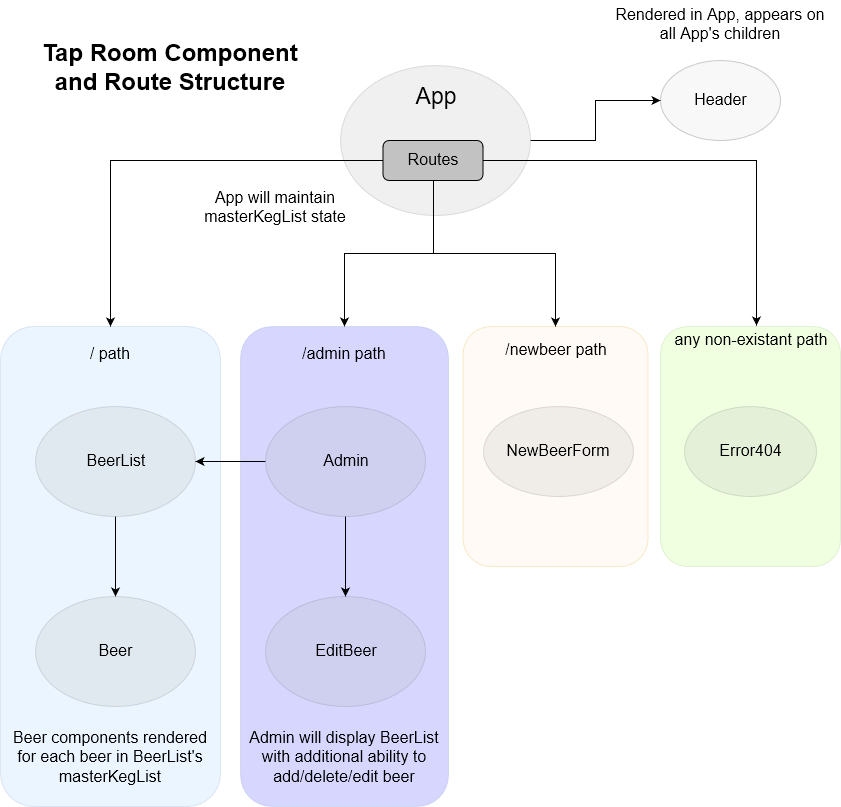
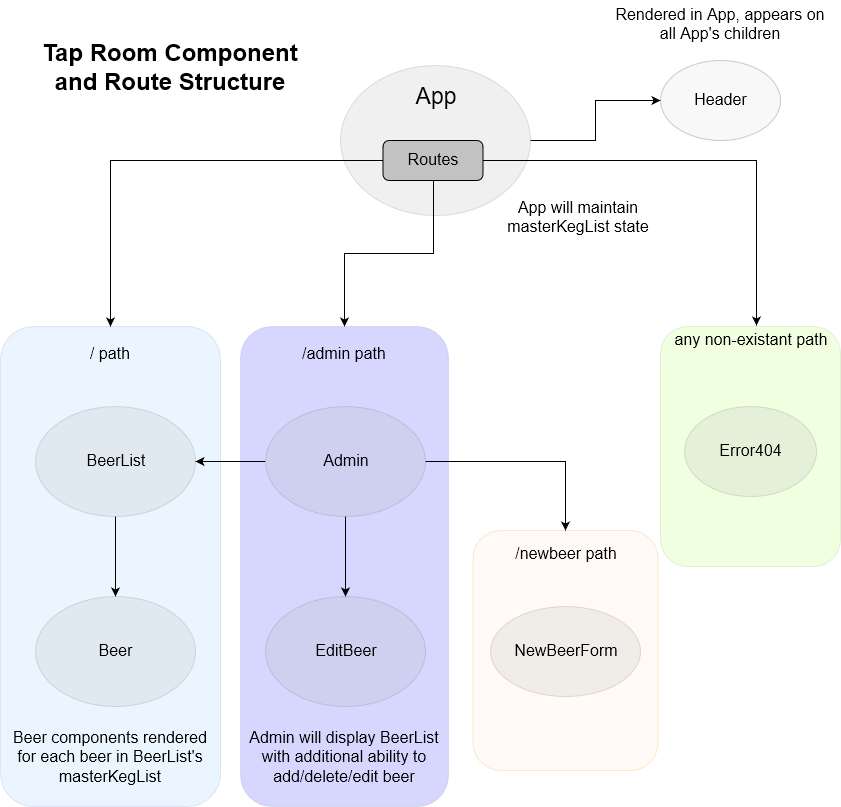
add admin component and move newbeerform to admin

diff --git a/src/components/App.jsx b/src/components/App.jsx
@@ -6,6 +6,7 @@ import NewBeerForm from './NewBeerForm';
 import { Switch, Route } from 'react-router-dom';
 import Error404 from './Error404';
 import { v4 } from 'uuid';
+import Admin from './Admin';
 
 
 class App extends React.Component{
@@ -85,7 +86,7 @@ class App extends React.Component{
           <Header/>
           <Switch>
             <Route exact path='/' render={()=><BeerList beerList={this.state.masterBeerList} />} />
-
+            <Route exact path='/admin' component={Admin} />
             <Route exact path='/newbeer' component={NewBeerForm} />
             <Route component={Error404} />
           </Switch>

diff --git a/src/components/Header.jsx b/src/components/Header.jsx
@@ -17,7 +17,7 @@ function Header() {
         <h1>Tap Room Brewery</h1>
       </div>
       <div className="link">
-        <Link to="/">Home</Link> | <Link to="/newbeer">Add New Beer</Link>
+        <Link to="/">Home</Link> | <Link to="/admin">Admin</Link>
       </div>
       <hr/>
     </div>

diff --git a/src/components/Admin.jsx b/src/components/Admin.jsx
@@ -1,0 +1,13 @@
+import React from 'react';
+import PropTypes from 'prop-types';
+import {Link} from 'react-router-dom';
+
+function Admin() {
+  return(
+    <div>
+      <Link to="/newbeer"><button type="button">Add A New Beer</button></Link>
+    </div>
+  );
+}
+
+export default Admin;
